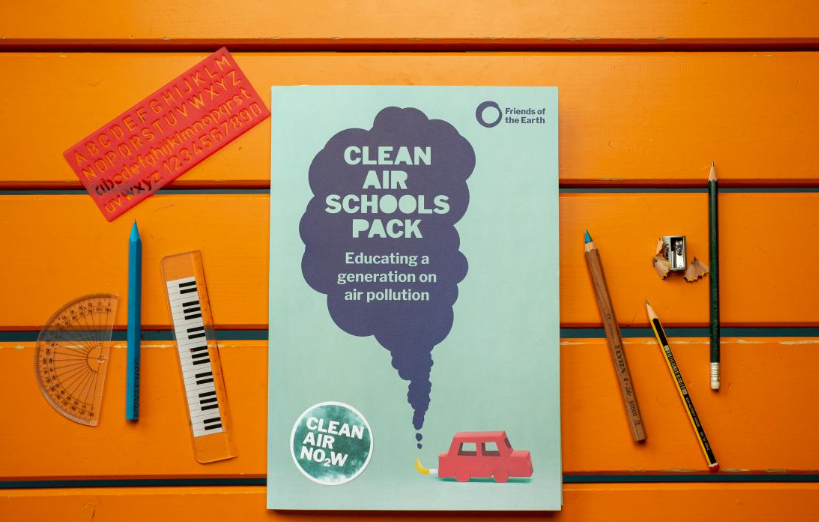
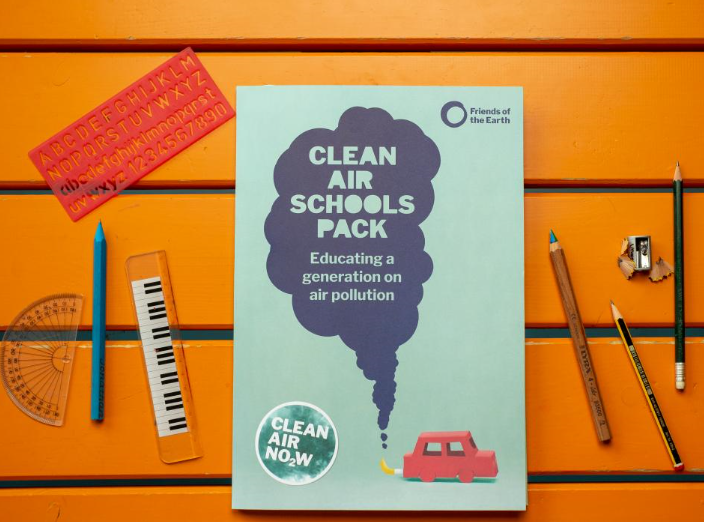
upd

diff --git a/Index.html b/Index.html
@@ -171,7 +171,7 @@
 
             <div class="container">
                 <a target="_blank" href=" ">
-                    <img src="Images/ecookids.jpg" alt="Informacion" style=" width:100%;">
+                    <img src="Images/airp.PNG" alt="Informacion" style=" width:100%;">
 
 
                 </a>
